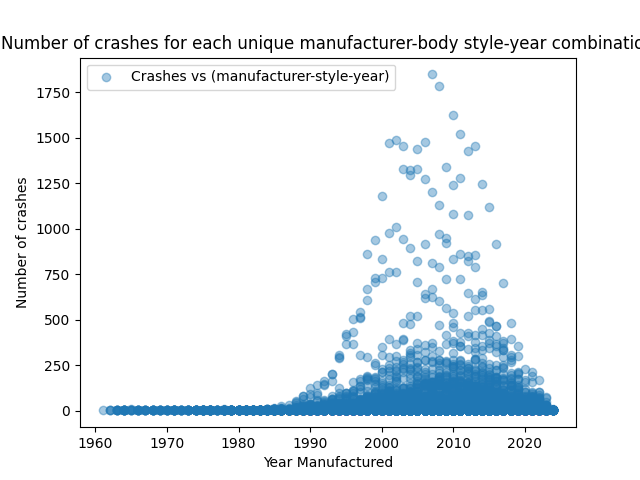
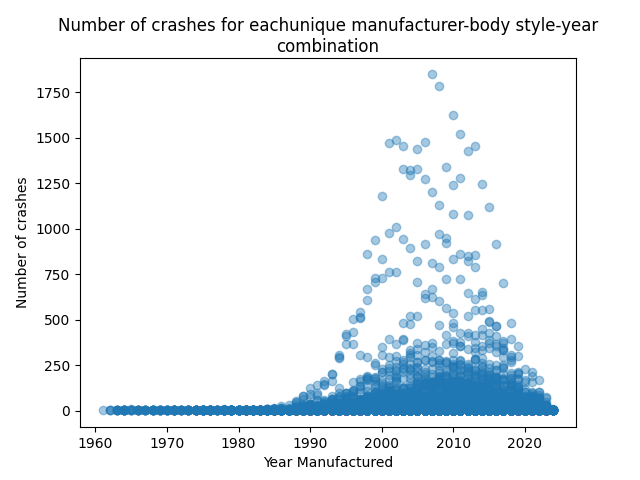
cleaned up task3

Changed region(s): [[0.0, 0.0312, 1.0, 0.1875]]

diff --git a/task3/task3_3.py b/task3/task3_3.py
@@ -40,7 +40,7 @@ def task3_3():
 
     plt.xlabel('Year Manufactured')
     plt.ylabel('Number of crashes')
-    plt.title('Number of crashes for each unique manufacturer-body style-year combination')
+    plt.title('Number of crashes for each unique manufacturer-body style-year combination', wrap=True)
 
     plt.savefig('task3_3_scattercolour.png')
 
@@ -56,4 +56,3 @@ def write_to_csv(df, cluster_num):
     
     filename = 'task3_3_cluster{k}.csv'.format(k=cluster_num)
     cluster_df.head(10).to_csv(filename, index=False)
-

diff --git a/task3/task3_1.py b/task3/task3_1.py
@@ -16,11 +16,8 @@ def task3_1():
 
     plt.xlabel('Year Manufactured')
     plt.ylabel('Number of crashes')
-    plt.title('Number of crashes for each unique manufacturer-body style-year combination')
+    plt.title('Number of crashes for eachunique manufacturer-body style-year combination', wrap=True)
 
-    plt.show()
-    #plt.savefig('task3_1_scatter.png')
+    plt.savefig('task3_1_scatter.png')
 
     return
-
-task3_1()
